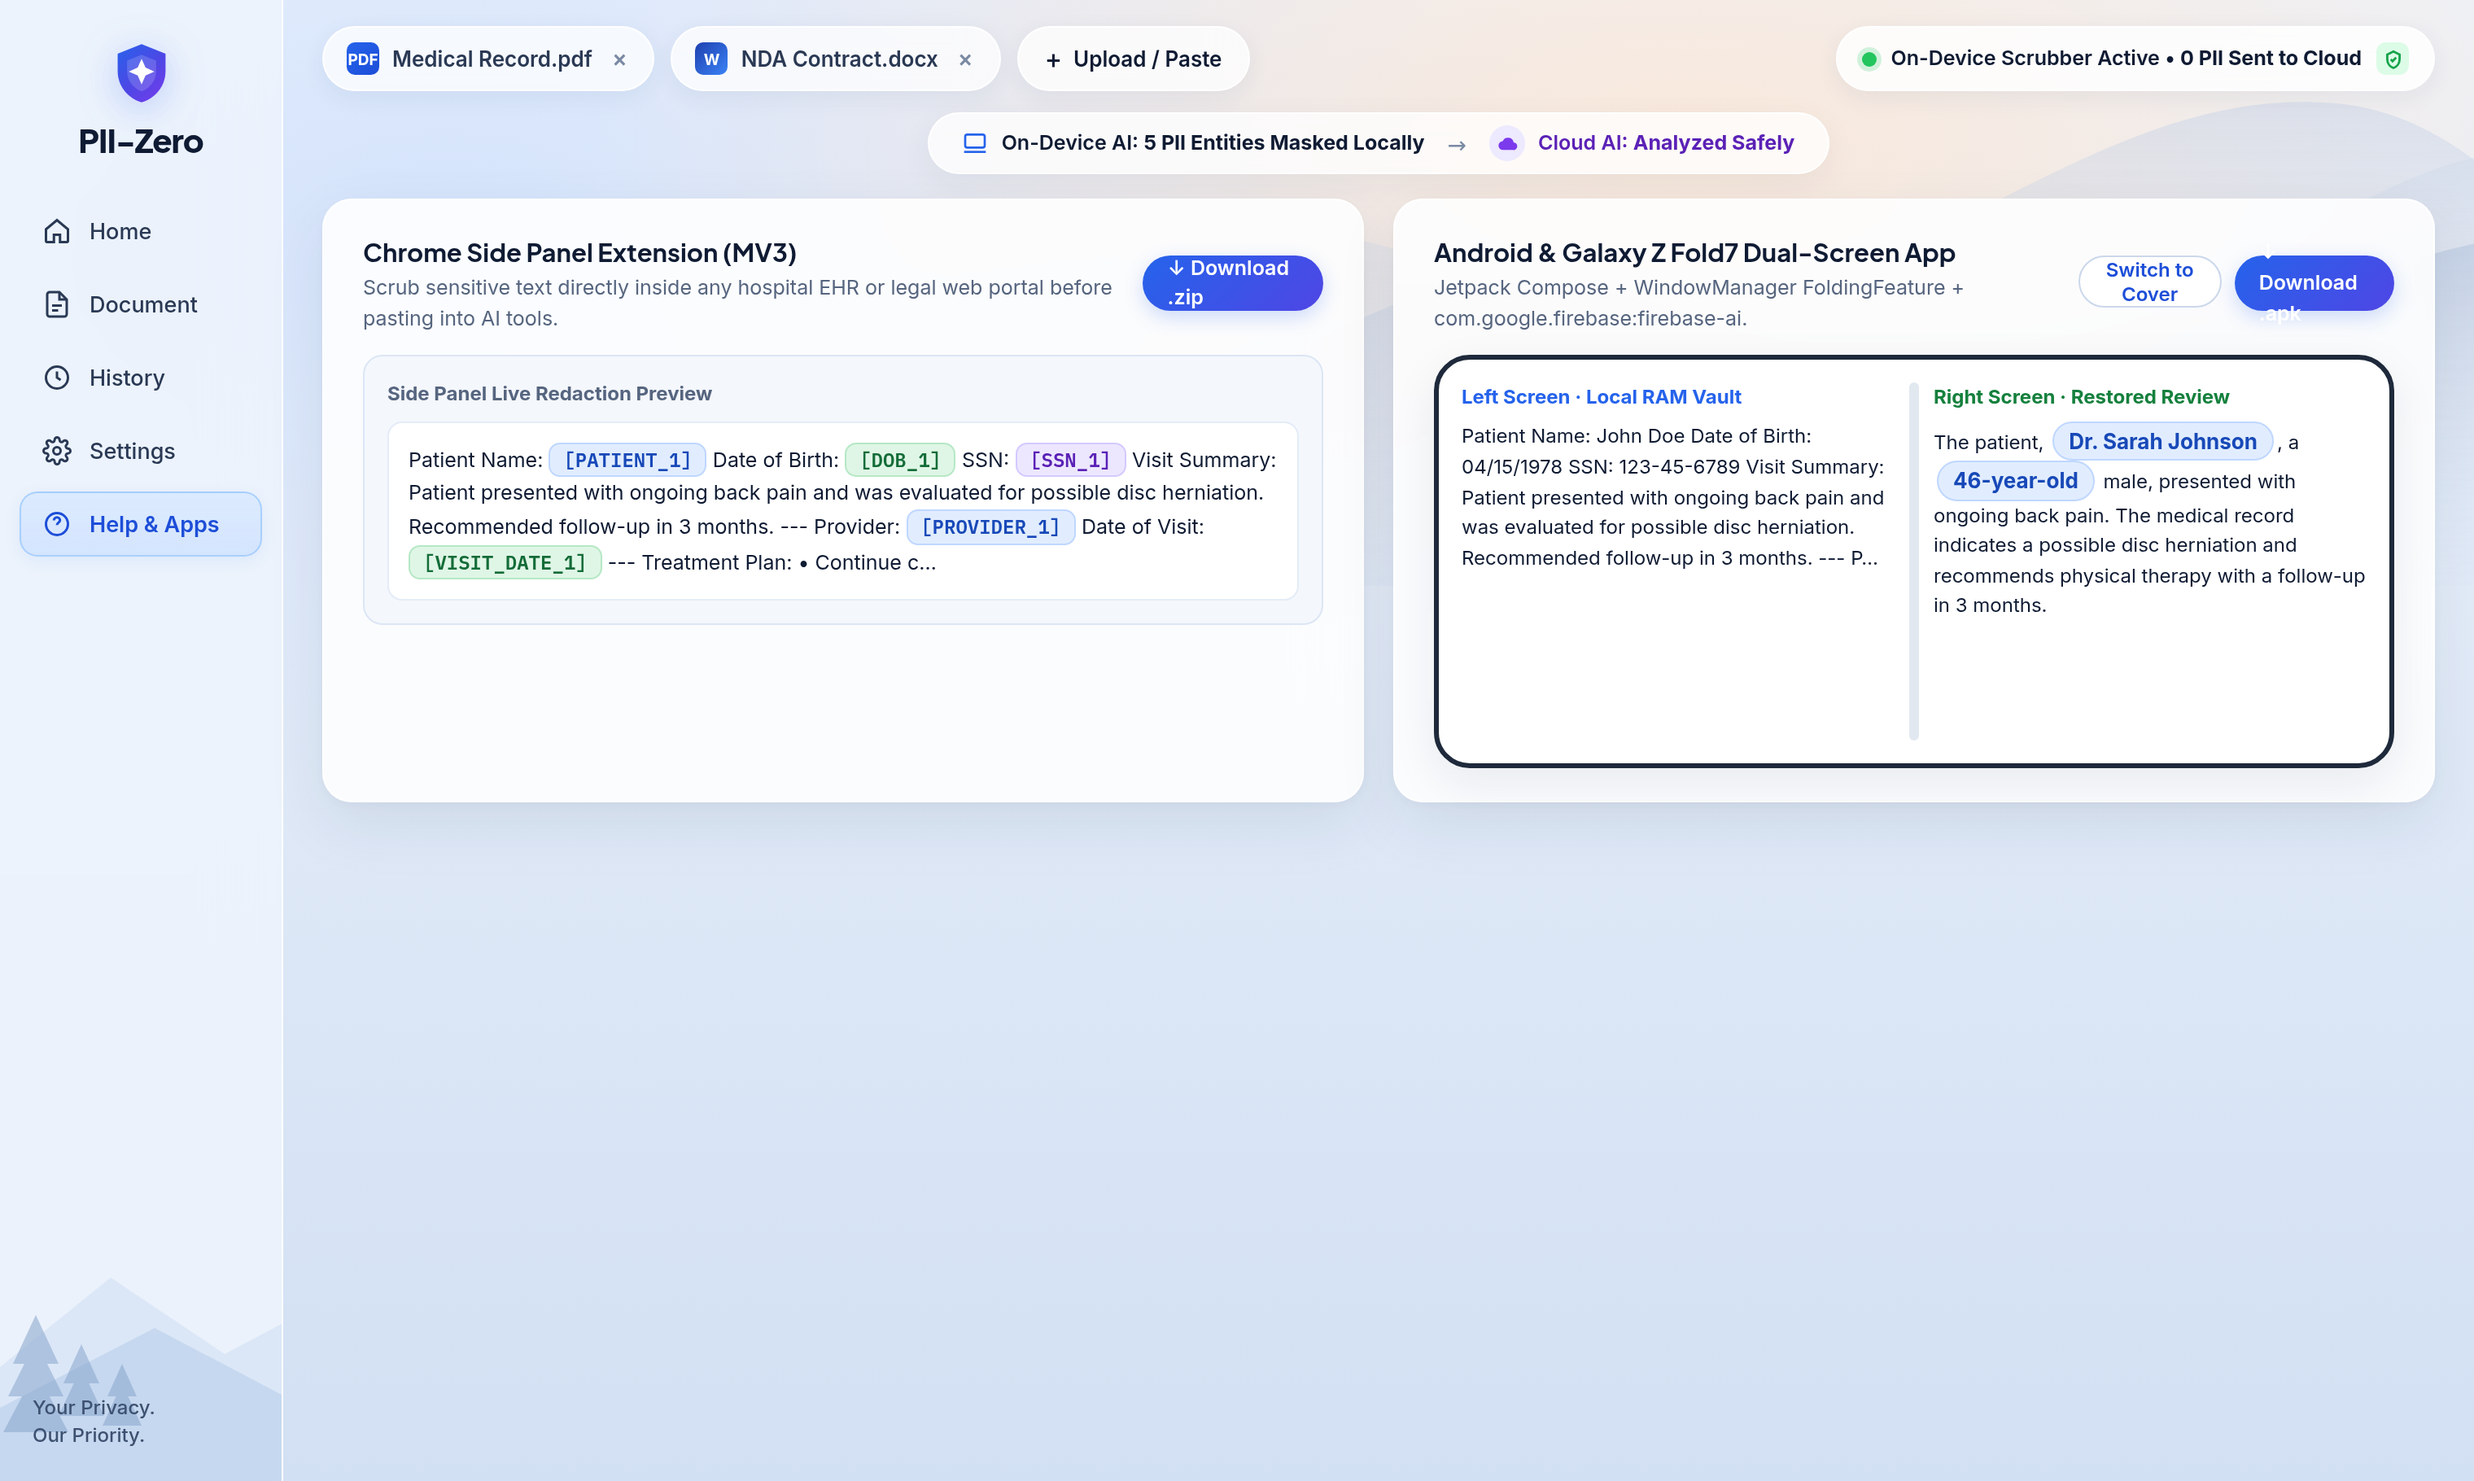
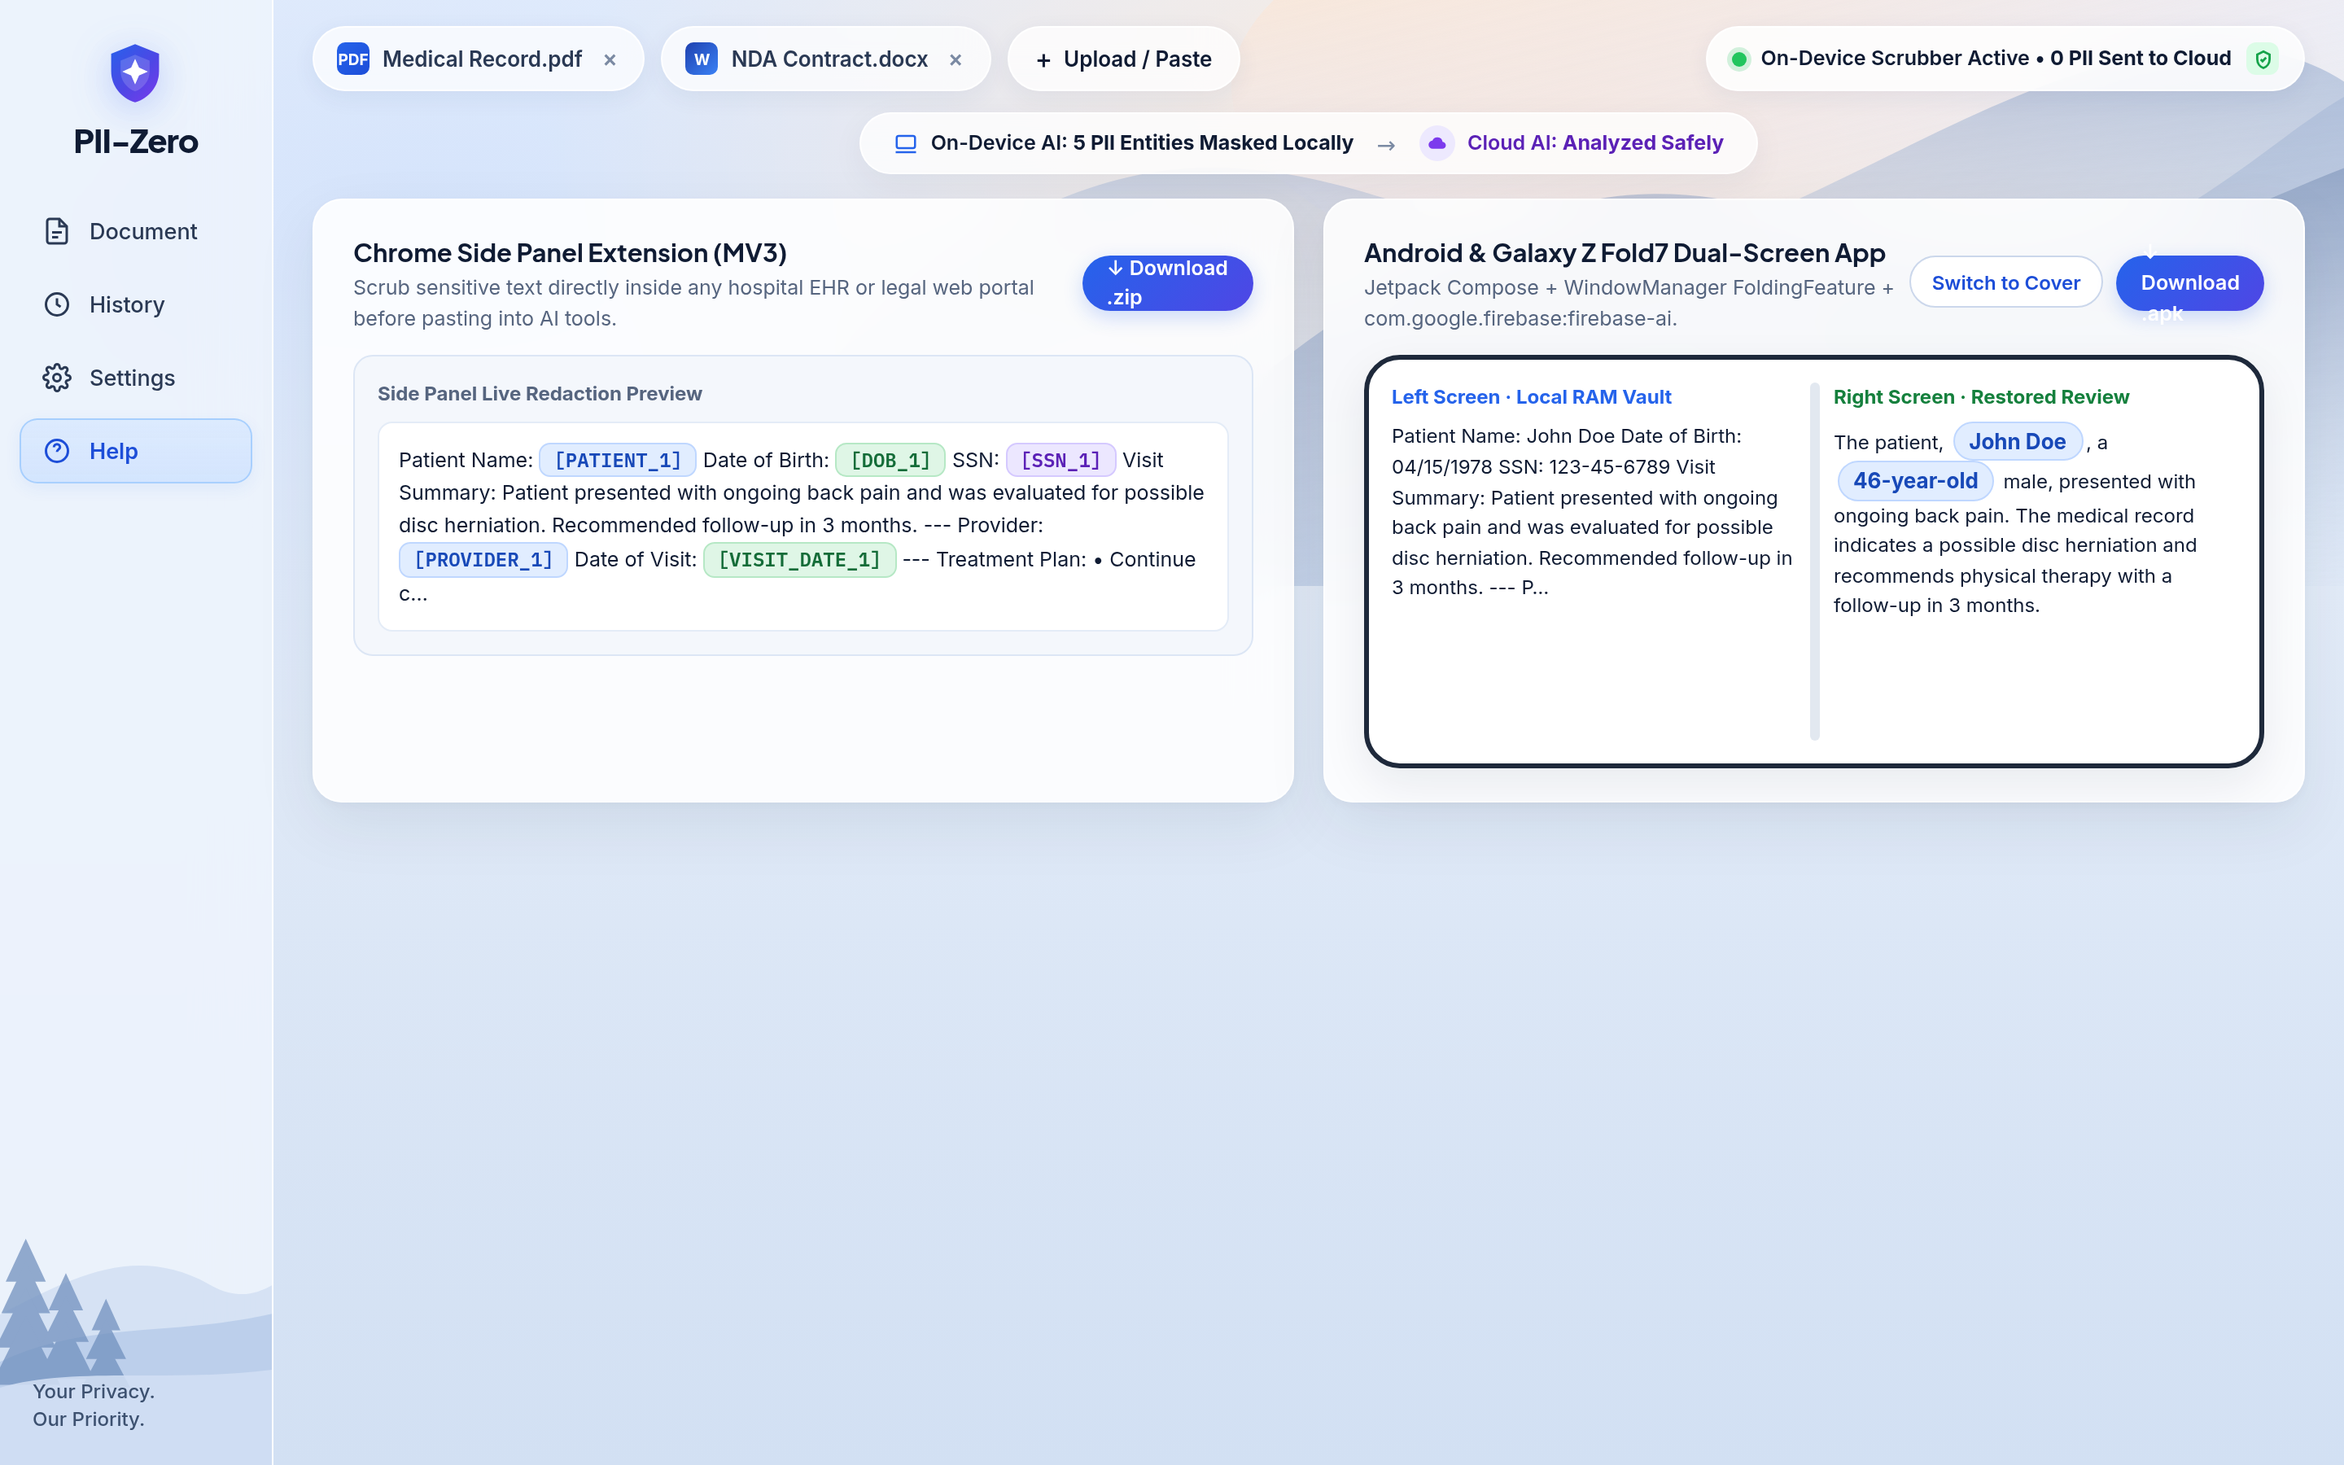
docs(devpost): refresh all gallery screenshots and add mobile & foldable showcase

diff --git a/SUBMISSION.md b/SUBMISSION.md
@@ -1,4 +1,4 @@
-![PII-Zero: Zero-Trust Hybrid AI for Sensitive Documents](https://d112y698adiu2z.cloudfront.net/photos/production/software_photos/005/852/822/datas/original.png)
+![PII-Zero: Zero-Trust Hybrid AI for Sensitive Documents](https://d112y698adiu2z.cloudfront.net/photos/production/software_photos/005/853/237/datas/original.png)
 
 ## Why I built this
 
@@ -8,7 +8,7 @@ Running everything on a tiny local model has the opposite problem. On-device **G
 
 Instead of treating on-device AI as just an offline fallback when Wi-Fi drops, **PII-Zero** uses Firebase AI Logic's hybrid modes (`ONLY_ON_DEVICE`, `PREFER_ON_DEVICE`, and `ONLY_IN_CLOUD`) so each model does the job it is actually suited for.
 
-![How PII-Zero Protects Medical & Legal Documents](https://d112y698adiu2z.cloudfront.net/photos/production/software_photos/005/852/826/datas/original.png)
+![How PII-Zero Protects Medical & Legal Documents](https://d112y698adiu2z.cloudfront.net/photos/production/software_photos/005/853/242/datas/original.png)
 
 ## How it works in 3 simple steps
 
@@ -16,7 +16,7 @@ Instead of treating on-device AI as just an offline fallback when Wi-Fi drops, *
 2. **Verify zero leaks before sending:** Right before opening a network request, a cryptographic SHA-256 pre-send check scans the outgoing text and any Q&A question one more time. If even one raw SSN, phone number, or patient name slipped through, the call is blocked on the spot and `0` bytes leave the device.
 3. **Analyze in Cloud Gemini 2.5 Flash and restore locally:** Google Cloud only receives the safe placeholder version, flags drug interactions or contract risks, and returns its answer using those same `[PII_*]` tags. Your browser or phone then swaps the real names back in locally as highlighted pills so you read a normal, clear report.
 
-![Medical Record Workspace with Inline Peek Tooltip and Restored AI Insights](https://d112y698adiu2z.cloudfront.net/photos/production/software_photos/005/852/823/datas/original.png)
+![Medical Record Workspace with Inline Peek Tooltip and Restored AI Insights](https://d112y698adiu2z.cloudfront.net/photos/production/software_photos/005/853/238/datas/original.png)
 
 ---
 
@@ -26,7 +26,7 @@ When I first tested plain `[REDACTED]` bars, multi-person documents fell apart r
 
 Giving each unique person, company, or ID a consistent numbered tag (`Elena Rostova` -> `[PII_NAME_01]`, `Aetheris Robotics GmbH` -> `[PII_CUSTOM_02]`) keeps every relationship intact for Cloud Gemini 2.5 Flash. Even when you type a follow-up question in the **Q&A Assistant** (*"Are there any risky indemnity clauses for Aetheris Robotics GmbH?"*), PII-Zero scrubs your question locally first, queries Cloud AI on anonymized tokens, and restores the real company and executive names on your screen.
 
-![NDA Contract Redacted Cloud View, Local RAM Entity Vault & Q&A Assistant](https://d112y698adiu2z.cloudfront.net/photos/production/software_photos/005/852/824/datas/original.png)
+![NDA Contract Redacted Cloud View, Local RAM Entity Vault & Q&A Assistant](https://d112y698adiu2z.cloudfront.net/photos/production/software_photos/005/853/239/datas/original.png)
 
 ---
 
@@ -38,11 +38,13 @@ Because clinicians and attorneys move between desktop web apps, hospital EHR for
 - **Chrome Side Panel Extension (`chrome-extension/`):** A Manifest V3 extension using `sidePanel`, `contextMenus`, and `scripting`. Highlight text in any web form, right-click to scrub locally in the side panel, and replace the form field with the safe redacted copy in one click.
 - **Android & Galaxy Z Fold7 App (`android/`):** Written in Kotlin with Jetpack Compose, `com.google.firebase:firebase-ai`, and Jetpack WindowManager `FoldingFeature`. On an unfolded Galaxy Z Fold7, it splits cleanly across the hinge (private note on the left screen, restored Gemini review on the right); on a folded phone screen, it switches to a clean single-column view.
 
-![Home Dashboard Overview & Recent Zero-PII Documents](https://d112y698adiu2z.cloudfront.net/photos/production/software_photos/005/852/825/datas/original.png)
+![Native-Scale Smartphone & Unfolded Galaxy Z Fold7 Responsive Layouts](https://d112y698adiu2z.cloudfront.net/photos/production/software_photos/005/853/240/datas/original.png)
 
-![Zero-Trust Cryptographic Audit & Pre-Send Leak Blocker](https://d112y698adiu2z.cloudfront.net/photos/production/software_photos/005/852/827/datas/original.png)
+![Home Dashboard Overview & Recent Zero-PII Documents](https://d112y698adiu2z.cloudfront.net/photos/production/software_photos/005/853/241/datas/original.png)
 
-![Chrome Side Panel Extension and Android Galaxy Z Fold7 App](https://d112y698adiu2z.cloudfront.net/photos/production/software_photos/005/852/828/datas/original.png)
+![Zero-Trust Cryptographic Audit & Pre-Send Leak Blocker](https://d112y698adiu2z.cloudfront.net/photos/production/software_photos/005/853/243/datas/original.png)
+
+![Chrome Side Panel Extension and Android Galaxy Z Fold7 App](https://d112y698adiu2z.cloudfront.net/photos/production/software_photos/005/853/244/datas/original.png)
 
 ---
 
